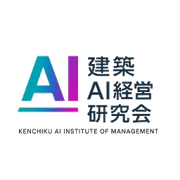
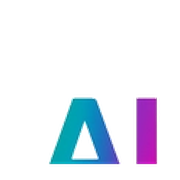
faviconをAIロゴにトリミング、ヘッダー高さ微調整

Changed region(s): [[0.0833, 0.3056, 0.8889, 0.9167]]

diff --git a/index.html b/index.html
@@ -30,7 +30,7 @@ body{font-family:'Noto Sans JP','Inter',-apple-system,sans-serif;background:#eef
 a{color:inherit;text-decoration:none}
 
 /* ══ HEADER ══ */
-.header{background:var(--white);border-bottom:1px solid var(--gray-200);padding:14px 40px;position:fixed;top:0;left:0;right:0;z-index:100;width:100%;transition:translate 0.3s cubic-bezier(0.4,0,0.2,1)}
+.header{background:var(--white);border-bottom:1px solid var(--gray-200);padding:10px 40px;position:fixed;top:0;left:0;right:0;z-index:100;width:100%;transition:translate 0.3s cubic-bezier(0.4,0,0.2,1)}
 .header-spacer{height:var(--header-h,140px)}
 .header-inner{max-width:1280px;margin:0 auto;display:flex;align-items:center;justify-content:space-between}
 .header-brand{display:flex;align-items:center;gap:20px}
